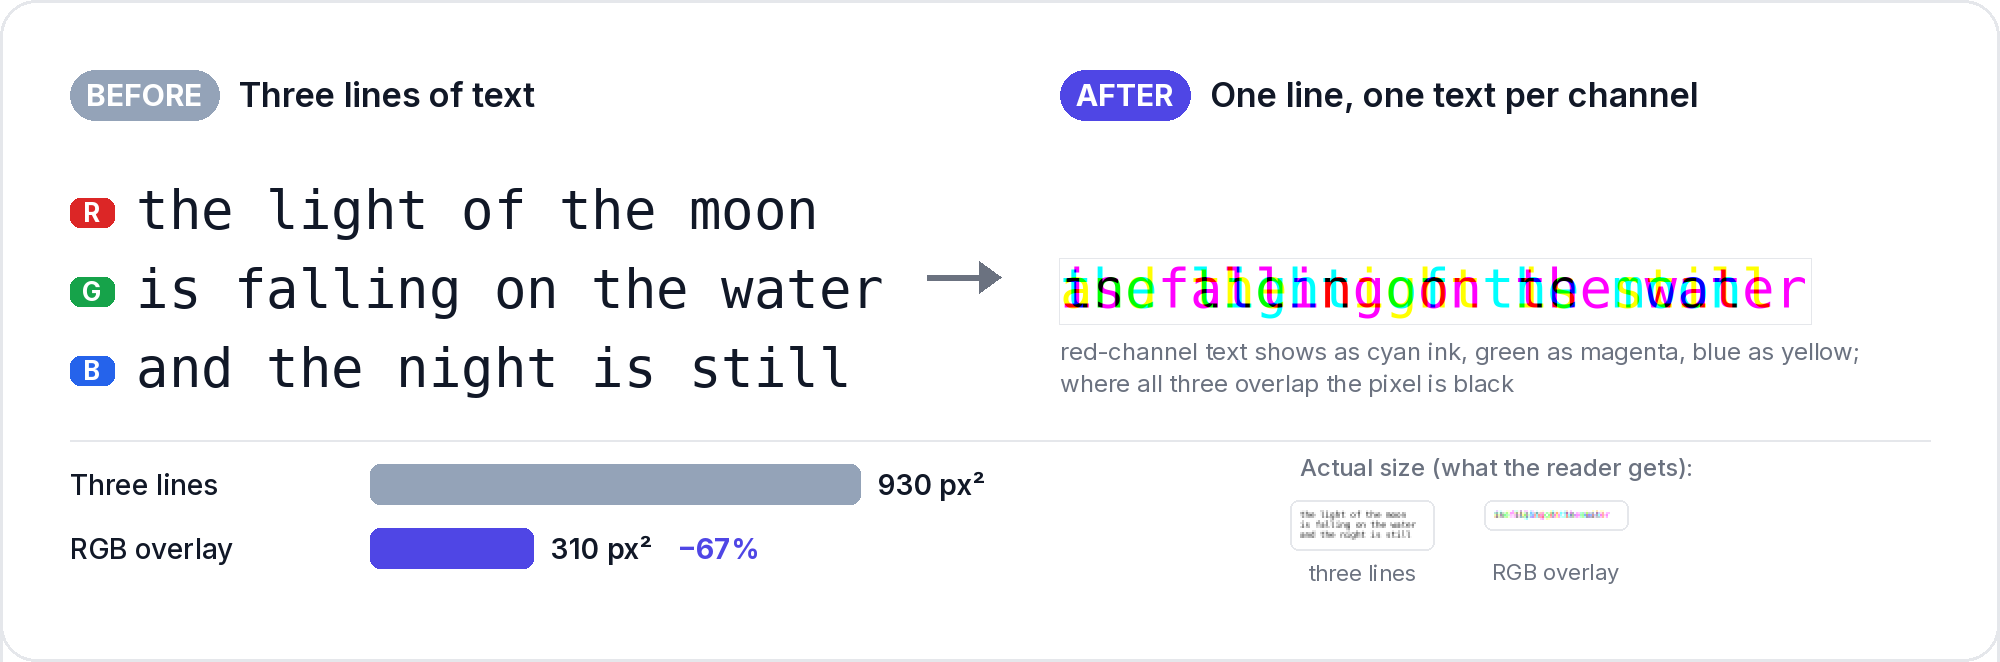
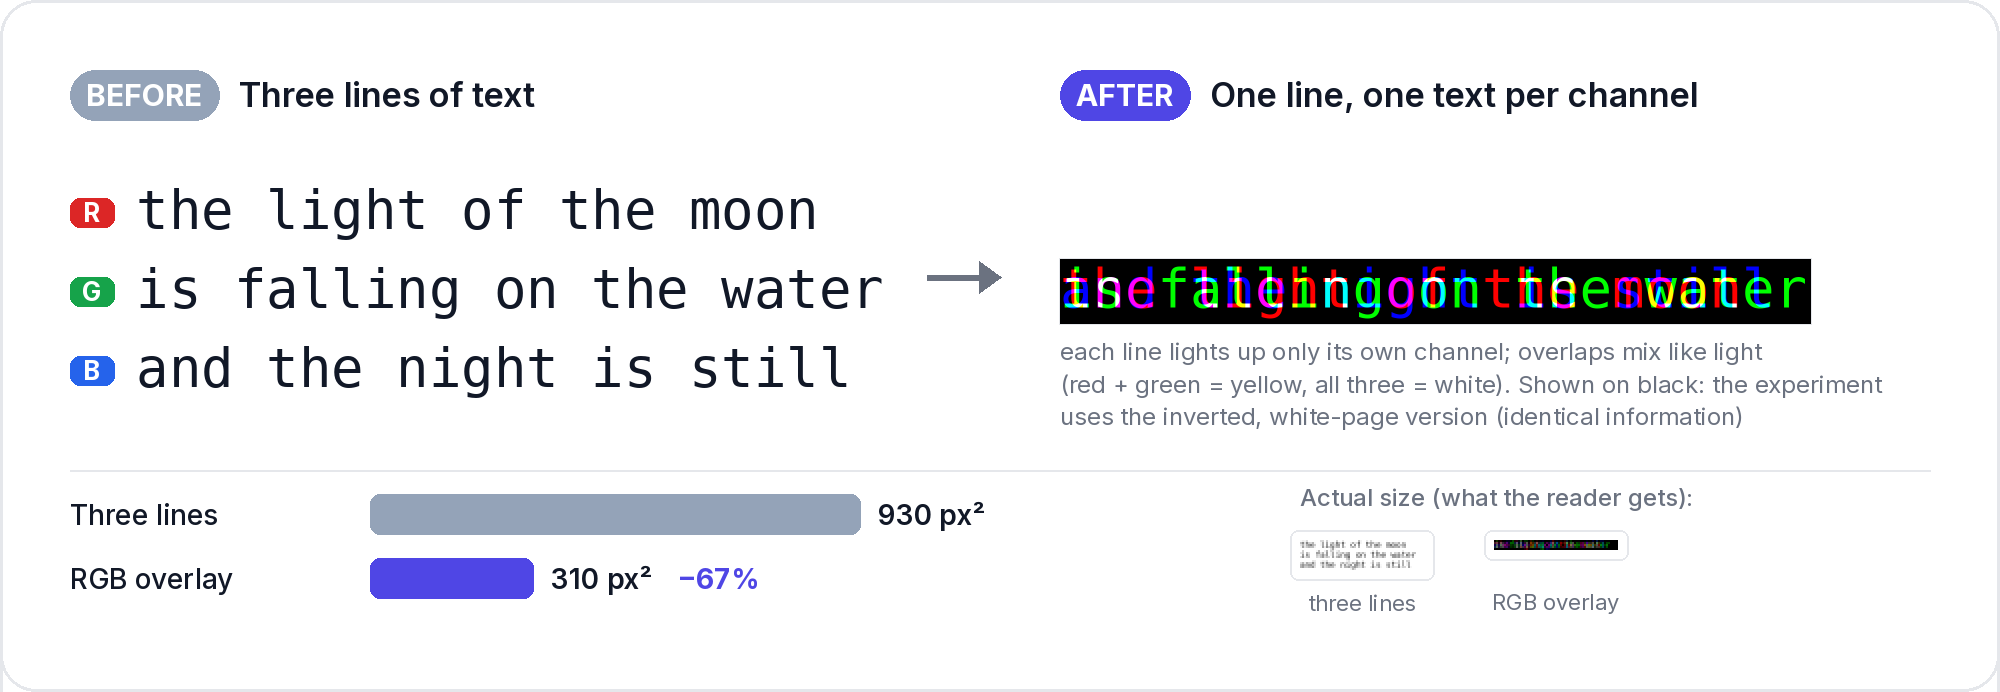
README RGB figure: show the overlay as additive light on black so the R line is red
The experiment's white page (stream c darkens channel c) shows R text as cyan ink; the figure now
shows its inverse (identical information) and says so.

Claude-Session: https://claude.ai/code/session_01WVzSJALEZhrm1JGLeEVHgT

diff --git a/scripts/make_readme_figures.py b/scripts/make_readme_figures.py
@@ -325,8 +325,14 @@ def mono_masks(z: float, ss: int = 1) -> list[np.ndarray]:
 
 
 def overlay(masks):
-    """rgb3 compositing: stream c darkens only channel c."""
+    """rgb3 compositing: stream c darkens only channel c (white page; R text shows as cyan ink)."""
     return np.stack([255 - m for m in masks], 2).astype(np.uint8)
+
+
+def overlay_light(masks):
+    """The same page inverted for display: stream c lights only channel c on black, so the R line is red.
+    Same information as ``overlay`` (255 - it)."""
+    return 255 - overlay(masks)
 
 
 def fig_rgb():
@@ -349,19 +355,19 @@ def fig_rgb():
     arrow(d, (lx + lw + rx) / 2 - 10, y0 + 1.5 * pitch)
 
     masks = mono_masks(z, ss=2)
-    comp = Image.fromarray(overlay(masks))
+    comp = Image.fromarray(overlay_light(masks))
     ytop = y0 + pitch + 14
     d.rectangle([rx - 1, ytop - 1, rx + comp.width, ytop + comp.height], outline=FAINT, width=2)
     img.paste(comp, (rx, ytop))
-    d.text((rx, ytop + comp.height + 18), "red-channel text shows as cyan ink, green as magenta, blue as yellow;",
-           font=ui(24), fill=MUTED, anchor="lt")
-    d.text((rx, ytop + comp.height + 50), "where all three overlap the pixel is black",
-           font=ui(24), fill=MUTED, anchor="lt")
+    for k, line in enumerate(["each line lights up only its own channel; overlaps mix like light",
+                              "(red + green = yellow, all three = white). Shown on black: the experiment",
+                              "uses the inverted, white-page version (identical information)"]):
+        d.text((rx, ytop + comp.height + 18 + 32 * k), line, font=ui(24), fill=MUTED, anchor="lt")
 
-    yb = ytop + comp.height + 140
+    yb = ytop + comp.height + 170
     d.line([lx, yb - 24, W - 70, yb - 24], fill=FAINT, width=2)
 
-    real3 = overlay(mono_masks(1, ss=4))
+    real3 = overlay_light(mono_masks(1, ss=4))
     real_mono = np.concatenate([255 - m for m in mono_masks(1, ss=4)], 0)
     n_chars = sum(len(t) for t in HAIKU)
     mono_area = real_mono.size
